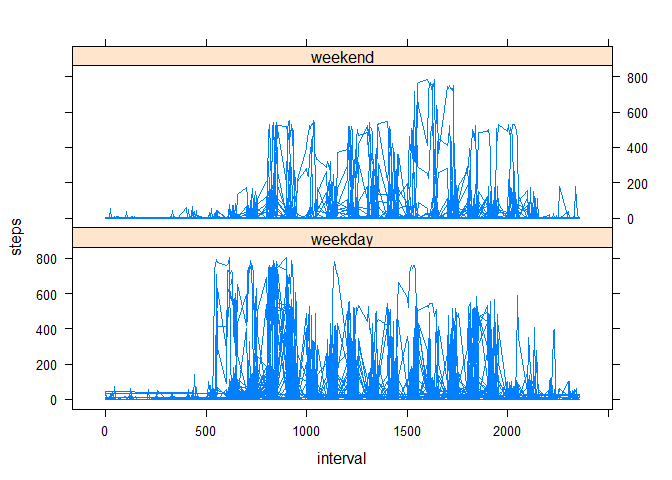
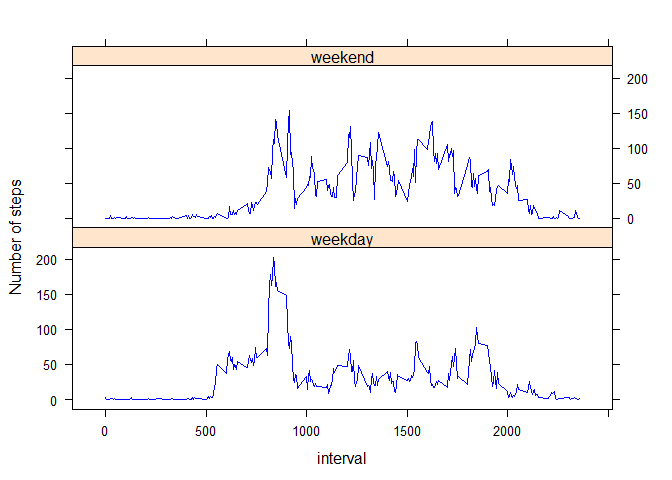
Version 2.1
resolved issue with presentation of final graph

diff --git a/PA1_template.html b/PA1_template.html
@@ -284,9 +284,12 @@ stepsPerDay &lt;-<span class="st"> </span><span class="kw">aggregate</span>(step
 <ul>
 <li>Make a panel plot containing a time series plot (i.e. type = “l”) of the 5-minute interval (x-axis) and the average number of steps taken, averaged across all weekday days or weekend days (y-axis). See the README file in the GitHub repository to see an example of what this plot should look like using simulated data.</li>
 </ul>
-<pre class="sourceCode r"><code class="sourceCode r"><span class="kw">library</span>(<span class="st">&quot;lattice&quot;</span>)
-dayType &lt;-<span class="st"> </span>data$dayType
-<span class="kw">xyplot</span>( steps~interval |<span class="st"> </span>dayType, <span class="dt">data=</span>data, <span class="dt">type=</span><span class="st">&quot;l&quot;</span>, <span class="dt">layout=</span><span class="kw">c</span>(<span class="dv">1</span>,<span class="dv">2</span>))</code></pre>
+<pre class="sourceCode r"><code class="sourceCode r">dayType &lt;-<span class="st"> </span>data$dayType
+<span class="kw">library</span>(lattice)
+<span class="kw">xyplot</span>(steps ~<span class="st"> </span>interval |<span class="st"> </span>dayType, 
+       <span class="kw">aggregate</span>(steps ~<span class="st"> </span>interval +<span class="st"> </span>dayType, data, <span class="dt">FUN =</span> mean), 
+       <span class="dt">layout =</span> <span class="kw">c</span>(<span class="dv">1</span>, <span class="dv">2</span>), <span class="dt">type =</span> <span class="st">&quot;l&quot;</span>, <span class="dt">group=</span>dayType, <span class="dt">ylab=</span><span class="st">&quot;Number of steps&quot;</span>,
+       <span class="dt">col=</span><span class="kw">c</span>(<span class="dv">4</span>,<span class="dv">4</span>))</code></pre>
 <div class="figure">
 <img src="PA1_template_files/figure-html/unnamed-chunk-18-1.png" />
 </div>

diff --git a/PA1_template.md b/PA1_template.md
@@ -275,9 +275,12 @@ Including all that missing data had a significant effect on the mean (1/6 the or
   - Make a panel plot containing a time series plot (i.e. type = "l") of the 5-minute interval (x-axis) and the average number of steps taken, averaged across all weekday days or weekend days (y-axis). See the README file in the GitHub repository to see an example of what this plot should look like using simulated data.
 
 ```r
-library("lattice")
 dayType <- data$dayType
-xyplot( steps~interval | dayType, data=data, type="l", layout=c(1,2))
+library(lattice)
+xyplot(steps ~ interval | dayType, 
+       aggregate(steps ~ interval + dayType, data, FUN = mean), 
+       layout = c(1, 2), type = "l", group=dayType, ylab="Number of steps",
+       col=c(4,4))
 ```
 
 ![](PA1_template_files/figure-html/unnamed-chunk-18-1.png) 
